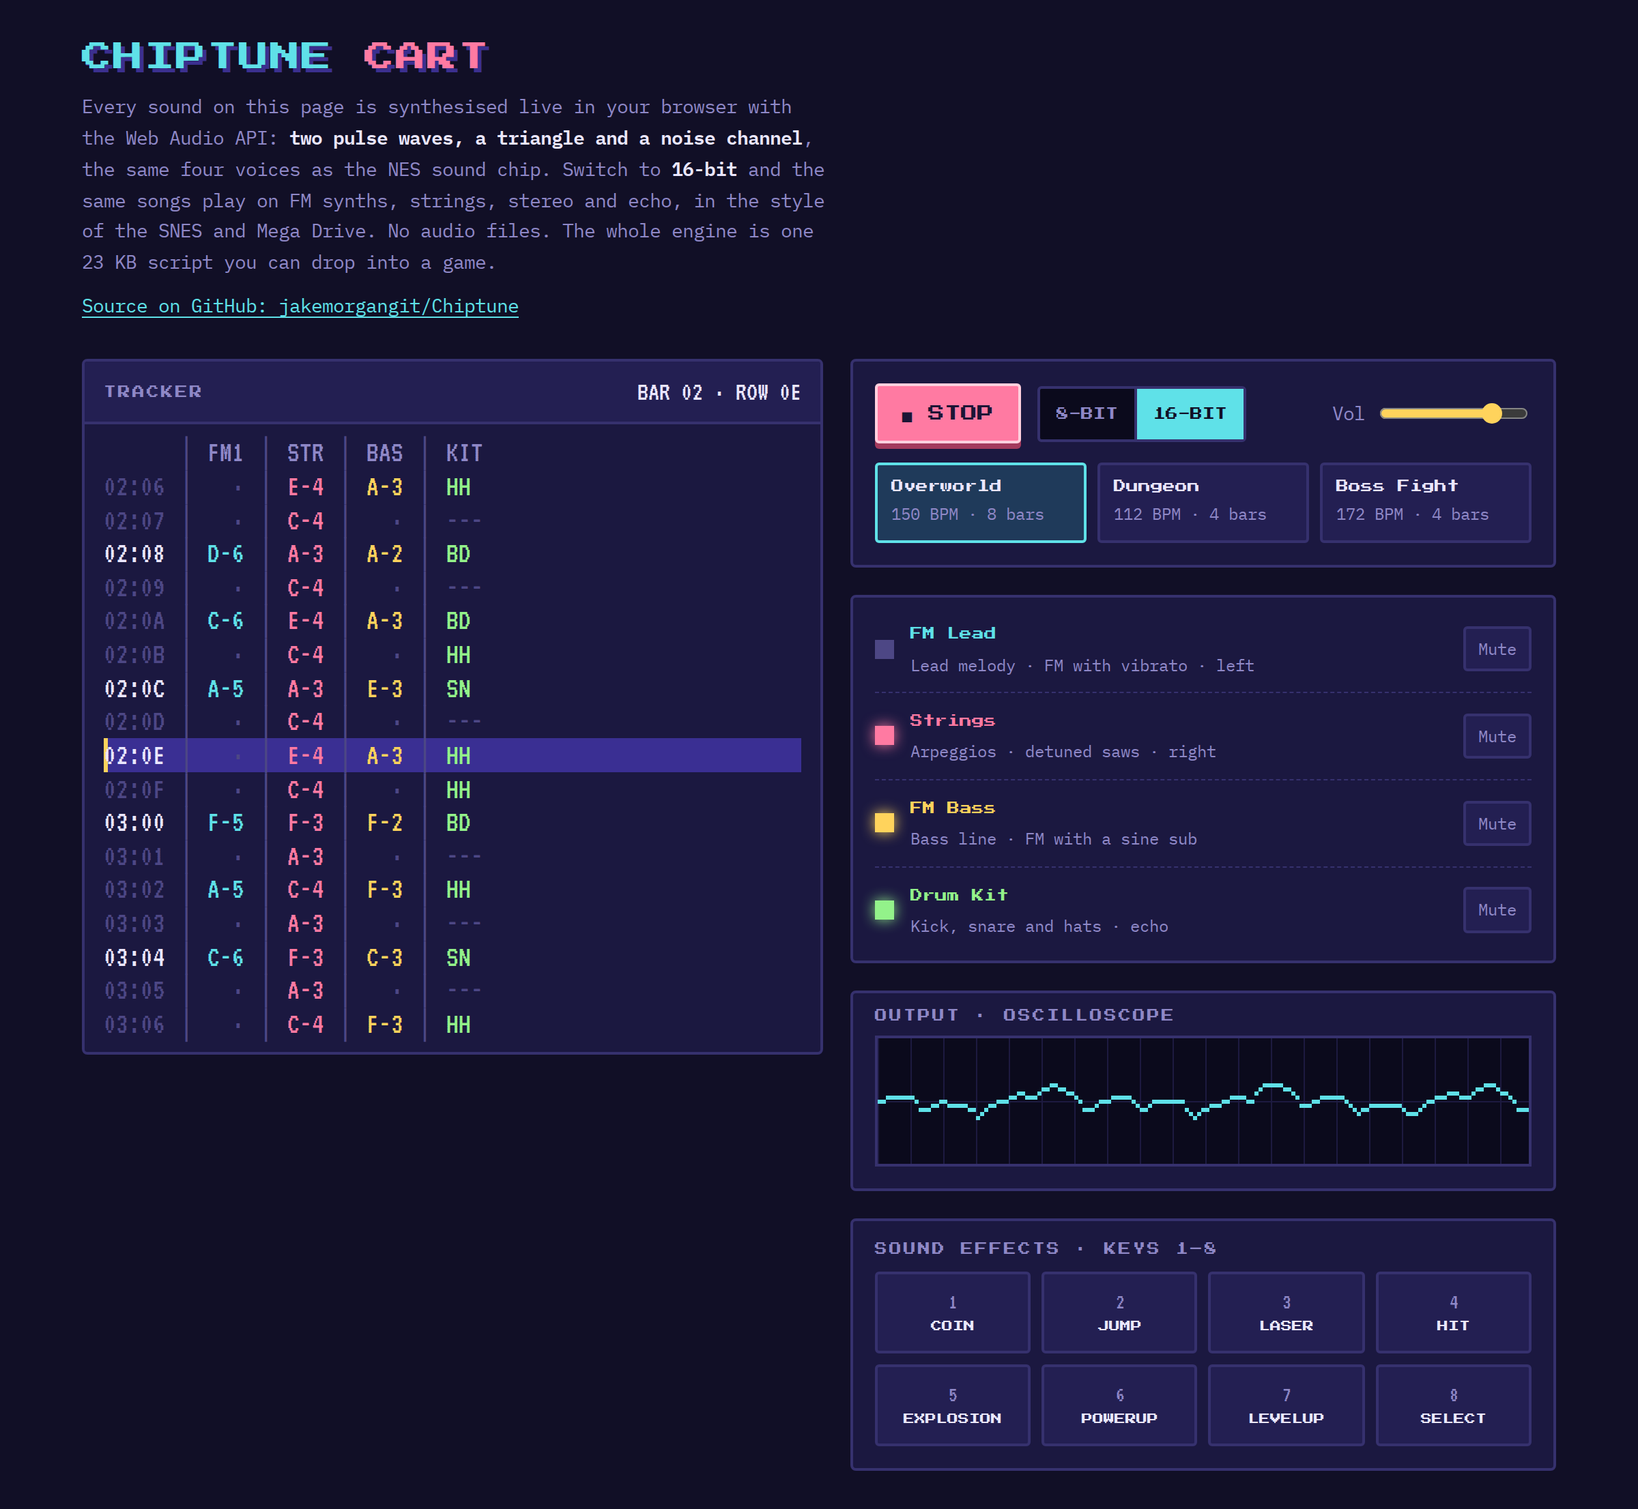
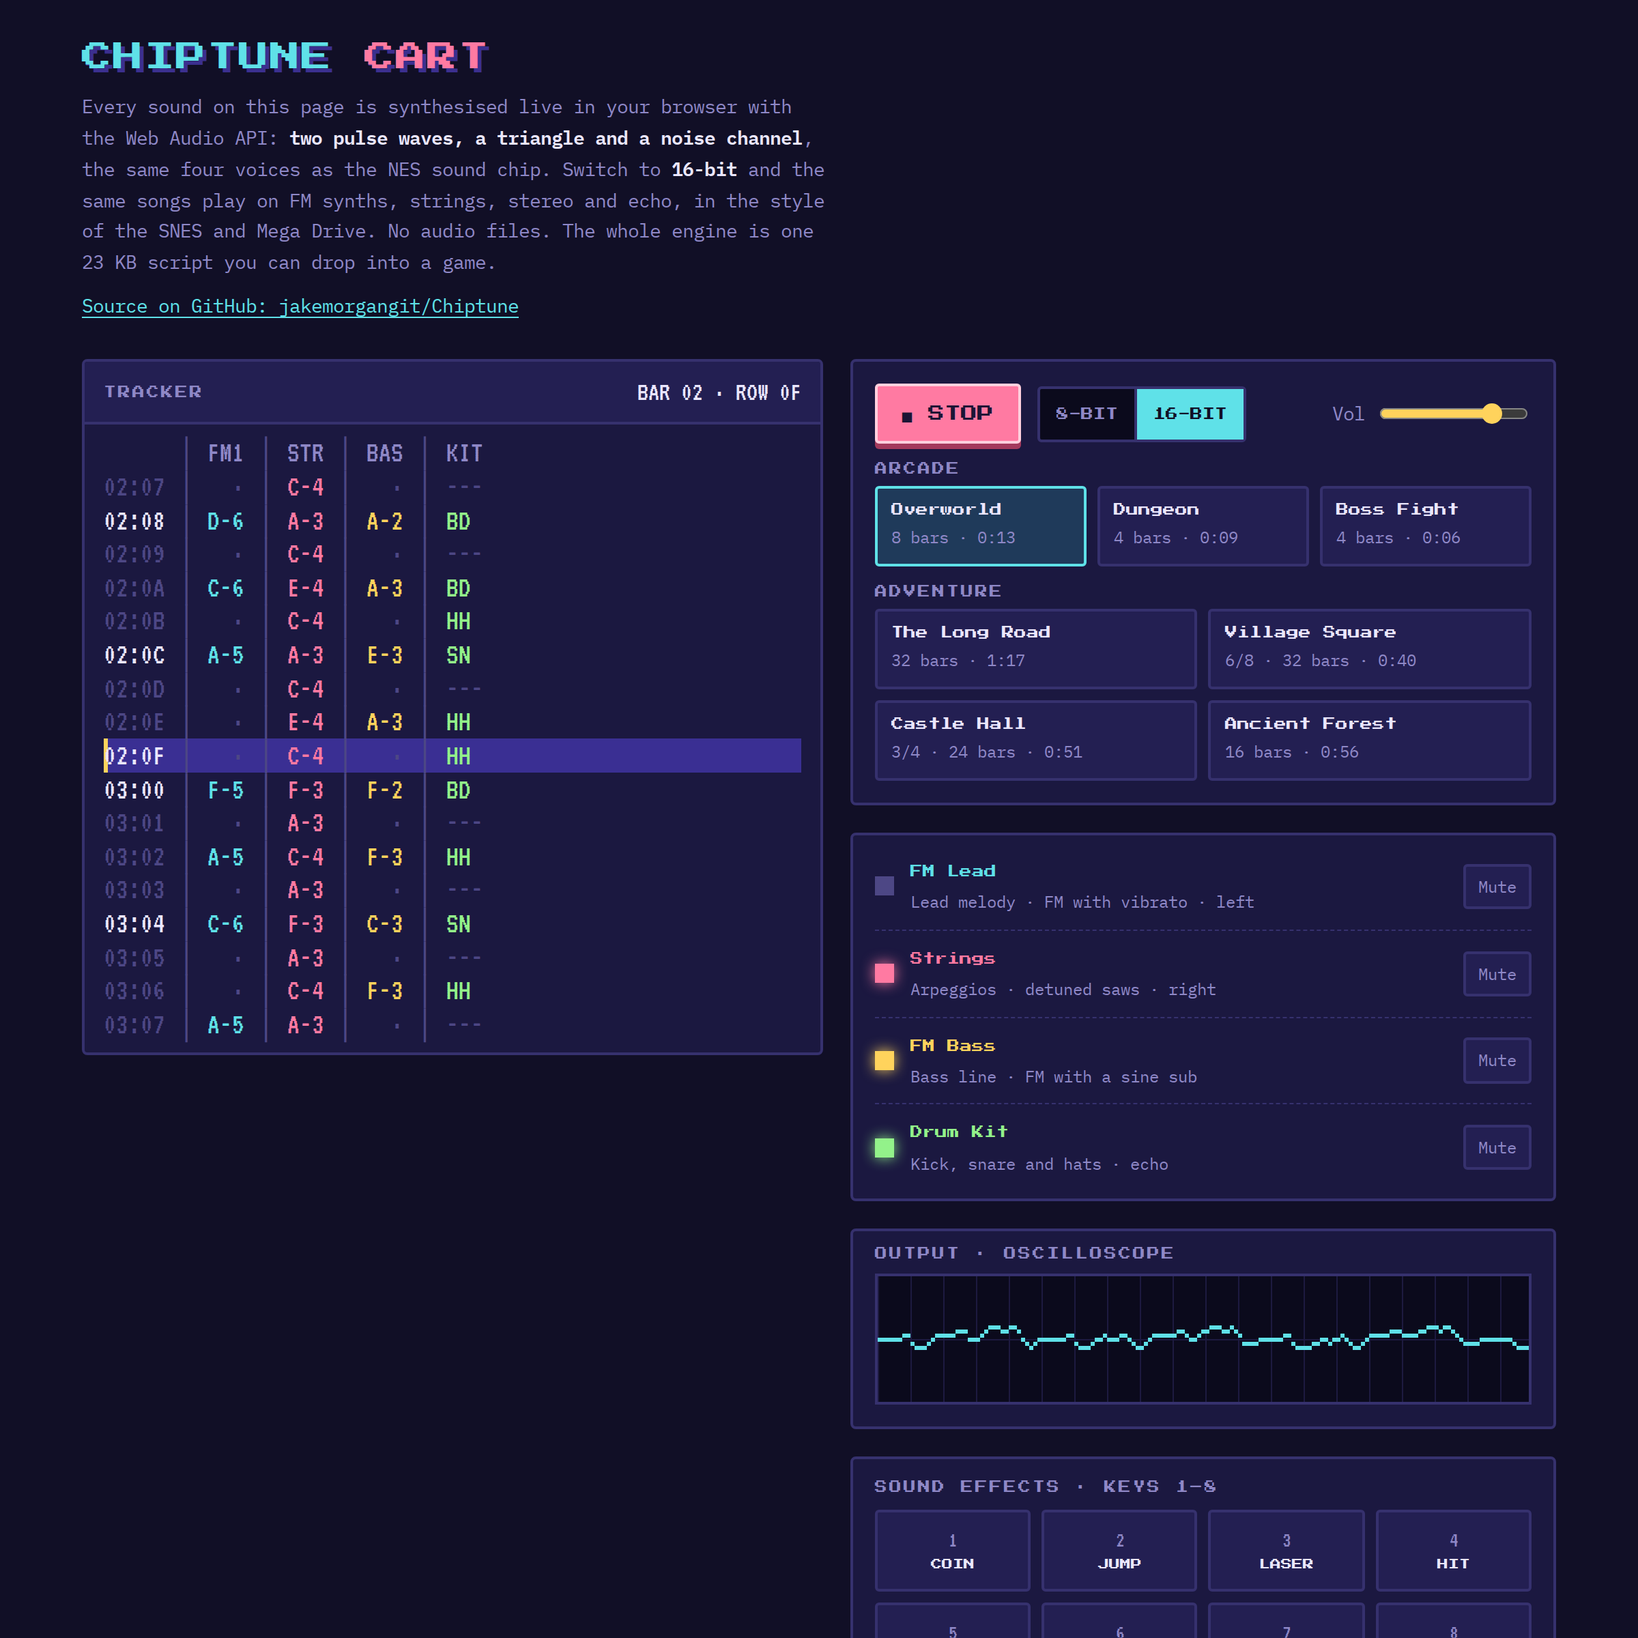
Add four longer adventure songs and 3/4 and 6/8 support
songs-adventure.js adds The Long Road (RPG field theme, 32 bars),
Village Square (medieval 6/8 dance in D Dorian, 32 bars), Castle Hall
(3/4 processional in G minor, 24 bars) and Ancient Forest (slow,
atmospheric, 16 bars). Songs can now declare barSteps and beatSteps
for 3/4 and 6/8, and arp() takes a bar length. The demo groups songs
into Arcade and Adventure sets with meter and loop length, and the
README gains a song library table.

Changed region(s): [[0.0312, 0.0, 0.9688, 1.0]]

diff --git a/songs-adventure.js b/songs-adventure.js
@@ -1,0 +1,157 @@
+/*
+ * songs-adventure.js — longer, atmospheric songs for RPG and medieval games.
+ * Load after chiptune.js; the songs join ChipTune.songs. All are original compositions.
+ *
+ *   <script src="chiptune.js"></script>
+ *   <script src="songs-adventure.js"></script>
+ *   chip.play(ChipTune.songs.longRoad);
+ */
+(function (global) {
+  'use strict';
+
+  const ChipTune = global.ChipTune;
+  if (!ChipTune) throw new Error('Load chiptune.js before songs-adventure.js');
+  const { arp, bass } = ChipTune.helpers;
+
+  // Each melody is written as a list of bars so every bar can be checked for length.
+  const line = (bars) => bars.join(' ');
+  const repeat = (text, times) => Array(times).fill(text).join(' ');
+
+  // ---- The Long Road: an RPG field theme. D major, 4/4, 32 bars in four 8-bar sections. ----
+
+  const D = ['D4', 'F#4', 'A4'], A = ['C#4', 'E4', 'A4'], Bm = ['B3', 'D4', 'F#4'];
+  const Fsm = ['C#4', 'F#4', 'A4'], G = ['B3', 'D4', 'G4'], Em = ['B3', 'E4', 'G4'];
+
+  const roadChords = [
+    D, A, Bm, Fsm, G, D, Em, A, // A: the theme
+    D, A, Bm, Fsm, G, D, Em, D, // A': the theme answered, resolving home
+    Bm, G, D, A, Bm, G, Em, A, // B: the minor turn
+    G, A, Fsm, Bm, Em, A, D, A, // C: the climb, turning back to the top
+  ];
+  const roadRoots = [
+    'D3', 'A2', 'B2', 'F#2', 'G2', 'D3', 'E2', 'A2',
+    'D3', 'A2', 'B2', 'F#2', 'G2', 'D3', 'E2', 'D3',
+    'B2', 'G2', 'D3', 'A2', 'B2', 'G2', 'E2', 'A2',
+    'G2', 'A2', 'F#2', 'B2', 'E2', 'A2', 'D3', 'A2',
+  ];
+  const roadMelody = [
+    'F#5:6 E5:2 D5:4 A4:4', 'C#5:6 D5:2 E5:8', 'D5:6 C#5:2 B4:4 F#4:4', 'A4:6 B4:2 C#5:8',
+    'B4:6 C#5:2 D5:4 G5:4', 'F#5:6 E5:2 D5:4 F#5:4', 'G5:4 F#5:4 E5:4 D5:4', 'E5:12 r:4',
+
+    'F#5:6 E5:2 D5:4 A4:4', 'C#5:6 D5:2 E5:4 A5:4', 'B5:6 A5:2 F#5:4 D5:4', 'C#5:6 D5:2 E5:4 F#5:4',
+    'G5:6 F#5:2 E5:4 D5:4', 'A5:6 F#5:2 D5:8', 'E5:4 G5:4 F#5:4 E5:4', 'D5:12 r:4',
+
+    'B4:4 D5:4 F#5:8', 'G5:4 F#5:4 E5:4 D5:4', 'F#5:4 A5:4 D6:8', 'C#6:4 B5:4 A5:8',
+    'B5:6 A5:2 F#5:4 D5:4', 'E5:6 F#5:2 G5:4 B5:4', 'A5:4 G5:4 F#5:4 E5:4', 'E5:4 F#5:2 G5:2 A5:8',
+
+    'B5:6 A5:2 G5:4 D6:4', 'C#6:6 B5:2 A5:8', 'A5:6 G5:2 F#5:4 C#5:4', 'D5:4 F#5:4 B5:8',
+    'G5:6 F#5:2 E5:4 B4:4', 'C#5:4 E5:4 A5:8', 'F#5:6 E5:2 D5:4 A4:4', 'C#5:4 D5:2 E5:2 A4:8',
+  ];
+
+  // ---- Village Square: a medieval dance. D Dorian, 6/8, 32 bars over a drone bass. ----
+
+  const Dm = ['D4', 'F4', 'A4'], C = ['C4', 'E4', 'G4'], Gmaj = ['B3', 'D4', 'G4'];
+  const Am = ['A3', 'C4', 'E4'], F = ['A3', 'C4', 'F4'];
+
+  const villageChords = [
+    Dm, Dm, C, C, Dm, Gmaj, Am, Dm,
+    Dm, C, Dm, Gmaj, Dm, C, Am, Dm,
+    F, C, F, Gmaj, Dm, C, Am, Dm,
+    Am, Dm, C, F, Dm, Am, Gmaj, Dm, // a quieter interlude before the dance starts again
+  ];
+  const villageRoots = [
+    'D3', 'D3', 'C3', 'C3', 'D3', 'G2', 'A2', 'D3',
+    'D3', 'C3', 'D3', 'G2', 'D3', 'C3', 'A2', 'D3',
+    'F2', 'C3', 'F2', 'G2', 'D3', 'C3', 'A2', 'D3',
+    'A2', 'D3', 'C3', 'F2', 'D3', 'A2', 'G2', 'D3',
+  ];
+  const villageMelody = [
+    'D5:4 E5:2 F5:4 G5:2', 'A5:4 G5:2 F5:4 E5:2', 'E5:4 D5:2 C5:4 E5:2', 'G5:6 E5:6',
+    'D5:4 E5:2 F5:4 G5:2', 'A5:4 B5:2 C6:4 B5:2', 'A5:4 G5:2 E5:4 C5:2', 'D5:12',
+
+    'A5:2 G5:2 F5:2 E5:2 D5:4', 'E5:2 F5:2 G5:2 E5:2 C5:4', 'F5:2 G5:2 A5:2 F5:2 D5:4', 'B4:4 C5:2 D5:6',
+    'A5:4 A5:2 A5:4 G5:2', 'G5:4 F5:2 E5:4 C5:2', 'E5:2 F5:2 G5:2 F5:2 E5:2 C5:2', 'D5:6 r:6',
+
+    'C6:4 A5:2 F5:4 A5:2', 'G5:4 E5:2 C5:4 E5:2', 'F5:4 G5:2 A5:4 C6:2', 'D6:6 B5:6',
+    'D6:4 C6:2 A5:4 F5:2', 'E5:4 G5:2 C6:4 G5:2', 'A5:4 G5:2 E5:4 C5:2', 'D5:12',
+
+    'E5:4 D5:2 C5:4 A4:2', 'F5:4 E5:2 D5:4 A4:2', 'G4:4 A4:2 C5:4 E5:2', 'F5:6 A5:6',
+    'A5:4 G5:2 F5:4 D5:2', 'E5:4 C5:2 A4:4 C5:2', 'B4:4 D5:2 G5:4 B4:2', 'D5:6 A4:6',
+  ];
+
+  // ---- Castle Hall: a stately processional. G minor, 3/4, 24 bars. ----
+
+  const Gm = ['G3', 'Bb3', 'D4'], Cm = ['G3', 'C4', 'Eb4'], Dmaj = ['F#3', 'A3', 'D4'];
+  const Eb = ['G3', 'Bb3', 'Eb4'], Bb = ['F3', 'Bb3', 'D4'], Fmaj = ['F3', 'A3', 'C4'];
+
+  const hallChords = [
+    Gm, Cm, Dmaj, Gm, Eb, Bb, Cm, Dmaj,
+    Gm, Cm, Fmaj, Bb, Eb, Cm, Dmaj, Gm,
+    Bb, Fmaj, Gm, Dmaj, Eb, Cm, Dmaj, Dmaj,
+  ];
+  const hallRoots = [
+    'G2', 'C3', 'D3', 'G2', 'Eb2', 'Bb2', 'C3', 'D3',
+    'G2', 'C3', 'F2', 'Bb2', 'Eb2', 'C3', 'D3', 'G2',
+    'Bb2', 'F2', 'G2', 'D3', 'Eb2', 'C3', 'D3', 'D3',
+  ];
+  const hallMelody = [
+    'G4:4 Bb4:6 A4:2', 'G4:4 C5:8', 'F#4:4 A4:6 G4:2', 'D5:12',
+    'Eb5:4 D5:6 C5:2', 'D5:4 Bb4:8', 'C5:4 Eb5:4 G4:4', 'F#4:4 A4:4 D5:4',
+
+    'G5:4 F5:6 Eb5:2', 'Eb5:4 D5:4 C5:4', 'C5:4 F5:6 Eb5:2', 'D5:12',
+    'G5:4 F5:4 Eb5:4', 'Eb5:4 D5:4 C5:4', 'A4:4 D5:4 F#5:4', 'G5:12',
+
+    'F5:4 D5:6 Bb4:2', 'C5:4 F5:8', 'Bb5:4 A5:4 G5:4', 'F#5:4 A5:8',
+    'G5:4 Eb5:6 C5:2', 'Eb5:4 C5:4 G4:4', 'F#4:4 A4:4 C5:4', 'D5:8 r:4',
+  ];
+
+  // ---- Ancient Forest: slow and atmospheric. E minor, 4/4, 16 bars; harp first, then the lead. ----
+
+  const EmH = ['E3', 'B3', 'E4', 'G4'], CH = ['C3', 'G3', 'E4', 'G4'], DH = ['D3', 'A3', 'D4', 'F#4'];
+  const AmH = ['A2', 'E3', 'A3', 'C4'], BH = ['B2', 'F#3', 'B3', 'D#4'], GH = ['G2', 'D3', 'G3', 'B3'];
+
+  const forestChords = [EmH, CH, DH, EmH, EmH, CH, AmH, BH, EmH, GH, DH, CH, AmH, CH, BH, EmH];
+  const forestRoots = ['E2', 'C2', 'D2', 'E2', 'E2', 'C2', 'A2', 'B1', 'E2', 'G2', 'D2', 'C2', 'A2', 'C2', 'B1', 'E2'];
+  const forestMelody = [
+    'r:16', 'r:16', 'r:16', 'r:16',
+    'B4:8 E5:4 F#5:4', 'G5:12 E5:4', 'A5:8 G5:4 E5:4', 'F#5:16',
+    'B5:8 A5:4 G5:4', 'D5:8 G5:8', 'F#5:8 A5:4 F#5:4', 'E5:16',
+    'C5:8 E5:4 A5:4', 'G5:8 E5:8', 'D#5:8 F#5:8', 'E5:16',
+  ];
+
+  const adventure = {
+    longRoad: {
+      name: 'The Long Road', group: 'Adventure', bpm: 100,
+      pulse1: { duty: 0.5, vol: 0.13, sustain: 0.7, line: line(roadMelody) },
+      pulse2: { duty: 0.25, vol: 0.05, sustain: 0.7, line: arp(roadChords, [0, 1, 2, 1], 2) },
+      triangle: { vol: 0.3, gate: 0.85, line: bass(roadRoots, '0:4 7:4 12:4 7:4') },
+      noise: { vol: 0.24, line: repeat('k...h...s...h...', 16) + ' ' + repeat('k.h.s.h.k.khs.h.', 15) + ' k.h.s.h.s.sss.c.' },
+    },
+
+    villageSquare: {
+      name: 'Village Square', group: 'Adventure', bpm: 144, barSteps: 12, beatSteps: 6,
+      pulse1: { duty: 0.5, vol: 0.13, sustain: 0.6, line: line(villageMelody) },
+      pulse2: { duty: 0.125, vol: 0.05, sustain: 0.7, line: arp(villageChords, [0, 2, 1], 2, 12) },
+      triangle: { vol: 0.3, gate: 0.95, line: bass(villageRoots, '0:6 7:6') },
+      noise: { vol: 0.22, line: repeat('k...h.s...h.', 16) + ' ' + repeat('k.h.h.s.h.h.', 8) + ' ' + repeat('k...h.....h.', 8) },
+    },
+
+    castleHall: {
+      name: 'Castle Hall', group: 'Adventure', bpm: 84, barSteps: 12,
+      pulse1: { duty: 0.25, vol: 0.13, sustain: 0.75, line: line(hallMelody) },
+      pulse2: { duty: 0.5, vol: 0.05, sustain: 0.85, line: arp(hallChords, [0, 2, 1], 4, 12) },
+      triangle: { vol: 0.32, gate: 0.95, line: bass(hallRoots, '0:8 12:4') },
+      noise: { vol: 0.24, line: repeat('k.......k...', 16) + ' ' + repeat('k...s...k.h.', 7) + ' k...s.s.sssc' },
+    },
+
+    ancientForest: {
+      name: 'Ancient Forest', group: 'Adventure', bpm: 68,
+      pulse1: { duty: 0.5, vol: 0.12, sustain: 0.8, line: line(forestMelody) },
+      pulse2: { duty: 0.25, vol: 0.045, sustain: 0.5, gate: 0.95, line: arp(forestChords, [0, 1, 2, 3, 2, 1], 1) },
+      triangle: { vol: 0.3, gate: 0.98, line: bass(forestRoots, '0:16') },
+      noise: { vol: 0.12, line: '................ ........o.......' },
+    },
+  };
+
+  Object.assign(ChipTune.songs, adventure);
+})(typeof window !== 'undefined' ? window : globalThis);

diff --git a/index.html b/index.html
@@ -111,7 +111,10 @@
   .vol { display: flex; align-items: center; gap: 8px; margin-left: auto; color: var(--dim); }
   .vol input { width: 110px; accent-color: var(--tri); }
 
-  .songs { display: grid; grid-template-columns: repeat(3, minmax(0, 1fr)); gap: 8px; }
+  .songs { display: grid; gap: 14px; }
+  .song-group { display: grid; gap: 8px; }
+  .song-grid { display: grid; grid-template-columns: repeat(var(--cols, 3), minmax(0, 1fr)); gap: 8px; }
+  @media (max-width: 460px) { .song-grid { --cols: 2 !important; } }
   .song { padding: 10px; text-align: left; display: grid; gap: 4px; }
   .song .t { font: 9px/1.3 var(--display); }
   .song .m { color: var(--dim); font-size: 12px; font-variant-numeric: tabular-nums; }
@@ -205,7 +208,7 @@
   <div class="howto">
     <section class="panel">
       <h2>Use it in a game</h2>
-      <p>Load <code>chiptune.js</code>, unlock audio on the first click or keypress (browsers block sound until then), and call it from your game loop.</p>
+      <p>Load <code>chiptune.js</code> (plus <code>songs-adventure.js</code> for the longer songs), unlock audio on the first click or keypress (browsers block sound until then), and call it from your game loop.</p>
       <div class="code"><pre><span class="kw">const</span> chip = <span class="kw">new</span> ChipTune();
 
 startButton.onclick = () =&gt; {
@@ -216,6 +219,7 @@ startButton.onclick = () =&gt; {
 <span class="c">// in your game logic</span>
 <span class="kw">if</span> (player.touches(coin)) chip.sfx(<span class="s">'coin'</span>);
 <span class="kw">if</span> (boss.awake) chip.play(ChipTune.songs.boss);
+<span class="kw">if</span> (map.isForest) chip.play(ChipTune.songs.ancientForest);
 <span class="kw">if</span> (paused) chip.stop();
 
 <span class="c">// switch sound style at any time, even mid-song</span>
@@ -236,10 +240,11 @@ chip.play(myTheme);</pre></div>
     </section>
   </div>
 
-  <footer>Press <kbd>Space</kbd> to play or stop and <kbd>M</kbd> to switch between 8-bit and 16-bit. Three example songs are included: all original compositions.</footer>
+  <footer>Press <kbd>Space</kbd> to play or stop and <kbd>M</kbd> to switch between 8-bit and 16-bit. Seven songs are included, all original compositions: three short arcade loops and four longer adventure pieces.</footer>
 </div>
 
 <script src="chiptune.js"></script>
+<script src="songs-adventure.js"></script>
 <script>
 (() => {
   const chip = new ChipTune();
@@ -285,34 +290,46 @@ chip.play(myTheme);</pre></div>
       const s = step + i;
       if (s < 0 || s >= length) { out.push('<span class="row"> </span>'); continue; }
       const r = rows[s];
-      const bar = Math.floor(s / 16) + 1, rn = s % 16;
-      const cls = 'row' + (i === 0 ? ' cur' : '') + (rn % 4 === 0 ? ' beat' : '');
+      const bar = Math.floor(s / compiled.barSteps) + 1, rn = s % compiled.barSteps;
+      const cls = 'row' + (i === 0 ? ' cur' : '') + (rn % compiled.beatSteps === 0 ? ' beat' : '');
       const cols = CH.map((ch) => cell(ch, r[ch])).join(' <span class="sep">│</span> ');
       out.push(`<span class="${cls}"><span class="rn">${hex(bar)}:${hex(rn)}</span> <span class="sep">│</span> ${cols}</span>`);
     }
     rowsEl.innerHTML = out.join('');
-    nowEl.textContent = `BAR ${String(Math.floor(step / 16) + 1).padStart(2, '0')} · ROW ${hex(step % 16)}`;
+    nowEl.textContent = `BAR ${String(Math.floor(step / compiled.barSteps) + 1).padStart(2, '0')} · ROW ${hex(step % compiled.barSteps)}`;
   }
 
   // Song buttons
   const songsEl = $('songs');
-  for (const [key, song] of Object.entries(SONGS)) {
-    const b = document.createElement('button');
-    b.className = 'song';
-    b.dataset.key = key;
-    b.setAttribute('aria-pressed', key === songKey);
-    const bars = ChipTune.compile(song).length / 16;
-    b.innerHTML = `<span class="t">${song.name}</span><span class="m">${song.bpm} BPM · ${bars} bars</span>`;
-    b.addEventListener('click', () => selectSong(key, true));
-    songsEl.appendChild(b);
+  const groups = {};
+  for (const [key, song] of Object.entries(SONGS)) (groups[song.group || 'Songs'] ||= []).push(key);
+  for (const [name, keys] of Object.entries(groups)) {
+    const group = document.createElement('div');
+    group.className = 'song-group';
+    group.innerHTML = `<span class="label">${name}</span><div class="song-grid" style="--cols:${keys.length % 3 === 0 ? 3 : 2}"></div>`;
+    for (const key of keys) {
+      const song = SONGS[key];
+      const c = ChipTune.compile(song);
+      const secs = Math.round((c.length * 60) / song.bpm / 4);
+      const meter = c.barSteps === 12 ? (c.beatSteps === 6 ? '6/8 · ' : '3/4 · ') : '';
+      const b = document.createElement('button');
+      b.className = 'song';
+      b.dataset.key = key;
+      b.setAttribute('aria-pressed', key === songKey);
+      b.innerHTML = `<span class="t">${song.name}</span><span class="m">${meter}${c.length / c.barSteps} bars · ${Math.floor(secs / 60)}:${String(secs % 60).padStart(2, '0')}</span>`;
+      b.addEventListener('click', () => selectSong(key, true));
+      group.querySelector('.song-grid').appendChild(b);
+    }
+    songsEl.appendChild(group);
   }
+  const songBtns = songsEl.querySelectorAll('.song');
 
   function selectSong(key, start) {
     songKey = key;
     compiled = ChipTune.compile(SONGS[key]);
     queue.length = 0;
     shownStep = 0;
-    for (const b of songsEl.children) b.setAttribute('aria-pressed', b.dataset.key === key);
+    for (const b of songBtns) b.setAttribute('aria-pressed', b.dataset.key === key);
     renderChannels();
     renderRows(0);
     if (start || chip.playing) { chip.play(SONGS[key]); setPlaying(true); }

diff --git a/chiptune.js b/chiptune.js
@@ -18,6 +18,7 @@
  * Song format: each pitched channel is a line of "NOTE:steps" tokens, where a step is a
  * sixteenth note and "r" is a rest, e.g. "C5:2 E5:2 G5:4 r:8". Drum lines use one character
  * per step and "." for silence, e.g. "k.h.s.h.". Shorter lines repeat to fill the song.
+ * Songs in 3/4 or 6/8 set barSteps: 12. More songs: songs-adventure.js.
  */
 (function (global) {
   'use strict';
@@ -84,7 +85,8 @@
         }
       }
     }
-    return { name: song.name, bpm: song.bpm, length, byStep, rows, def: song };
+    const barSteps = song.barSteps || 16;
+    return { name: song.name, bpm: song.bpm, length, barSteps, beatSteps: song.beatSteps || 4, byStep, rows, def: song };
   }
 
   // Band-limited pulse wave with the given duty cycle, built from its Fourier series.
@@ -506,14 +508,15 @@
   // ---- Songs ---------------------------------------------------------------------------
 
   // Arpeggiate one chord per bar through a pattern of chord-tone indexes.
-  function arp(chords, pattern, stepLen) {
+  // barSteps is 16 for 4/4 and 12 for 3/4 or 6/8.
+  function arp(chords, pattern, stepLen, barSteps) {
     const len = stepLen || 1;
     return chords.map((chord) =>
-      Array.from({ length: 16 / len }, (_, i) => chord[pattern[i % pattern.length]] + ':' + len).join(' ')
+      Array.from({ length: (barSteps || 16) / len }, (_, i) => chord[pattern[i % pattern.length]] + ':' + len).join(' ')
     ).join(' ');
   }
 
-  // One bar of bass per root, from a rhythm of "semitoneOffset:steps" tokens that fills 16 steps.
+  // One bar of bass per root, from a rhythm of "semitoneOffset:steps" tokens that fills one bar.
   function bass(roots, rhythm) {
     return roots.map((root) =>
       rhythm.split(' ').map((tok) => {
@@ -527,7 +530,7 @@
 
   ChipTune.songs = {
     overworld: {
-      name: 'Overworld',
+      name: 'Overworld', group: 'Arcade',
       bpm: 150,
       pulse1: {
         duty: 0.25, vol: 0.15,
@@ -548,7 +551,7 @@
     },
 
     dungeon: {
-      name: 'Dungeon',
+      name: 'Dungeon', group: 'Arcade',
       bpm: 112,
       pulse1: {
         duty: 0.5, vol: 0.12, sustain: 0.5,
@@ -574,7 +577,7 @@
     },
 
     boss: {
-      name: 'Boss Fight',
+      name: 'Boss Fight', group: 'Arcade',
       bpm: 172,
       pulse1: {
         duty: 0.25, vol: 0.14,

diff --git a/README.md b/README.md
@@ -59,6 +59,7 @@ The page shows a tracker view of the song, per-channel mutes and a live oscillos
 
 ```html
 <script src="chiptune.js"></script>
+<script src="songs-adventure.js"></script> <!-- optional: the longer adventure songs -->
 <script>
   const chip = new ChipTune();
 
@@ -91,8 +92,26 @@ The page shows a tracker view of the song, per-channel mutes and a live oscillos
 | `chip.setMuted(channel, bool)` | Mutes or unmutes one music channel. |
 | `chip.onStep(fn)` | Calls `fn({ step, time, song })` for every sixteenth note, for syncing visuals. |
 
-Included songs: `overworld`, `dungeon`, `boss`.
-Included sound effects: `coin`, `jump`, `laser`, `hit`, `explosion`, `powerup`, `levelup`, `select`.
+### Song library
+
+All songs are original compositions. Loop lengths are at the written tempo.
+
+| Key | Song | Set | Style | Meter | Length |
+|---|---|---|---|---|---|
+| `overworld` | Overworld | Arcade | Upbeat platformer loop, C major | 4/4 | 8 bars · 0:13 |
+| `dungeon` | Dungeon | Arcade | Dark A minor with a delayed echo lead | 4/4 | 4 bars · 0:09 |
+| `boss` | Boss Fight | Arcade | Driving E minor at 172 BPM | 4/4 | 4 bars · 0:06 |
+| `longRoad` | The Long Road | Adventure | RPG field theme in D major, four sections building to a climax | 4/4 | 32 bars · 1:17 |
+| `villageSquare` | Village Square | Adventure | Medieval dance in D Dorian over a drone bass, with a quiet interlude | 6/8 | 32 bars · 0:40 |
+| `castleHall` | Castle Hall | Adventure | Stately G minor processional | 3/4 | 24 bars · 0:51 |
+| `ancientForest` | Ancient Forest | Adventure | Slow and atmospheric E minor: harp arpeggios, then a lead | 4/4 | 16 bars · 0:56 |
+
+The arcade songs are built into `chiptune.js`. The adventure songs live in `songs-adventure.js`,
+so a game only loads the music it uses.
+
+### Sound effects
+
+Available: `coin`, `jump`, `laser`, `hit`, `explosion`, `powerup`, `levelup`, `select`.
 
 ## Write your own song
 
@@ -109,6 +128,9 @@ const myTheme = {
 };
 chip.play(myTheme);
 ```
+
+For 3/4 or 6/8, set `barSteps: 12` on the song (and `beatSteps: 6` for 6/8) so the tracker
+counts bars correctly, and pass `12` as the last argument to `ChipTune.helpers.arp`.
 
 Channel options: `vol`, `duty` (pulse only), `sustain` (0–1 level after the attack),
 `gate` (fraction of each note that sounds) and `delay` (shift a line by N steps, handy for echoes).
